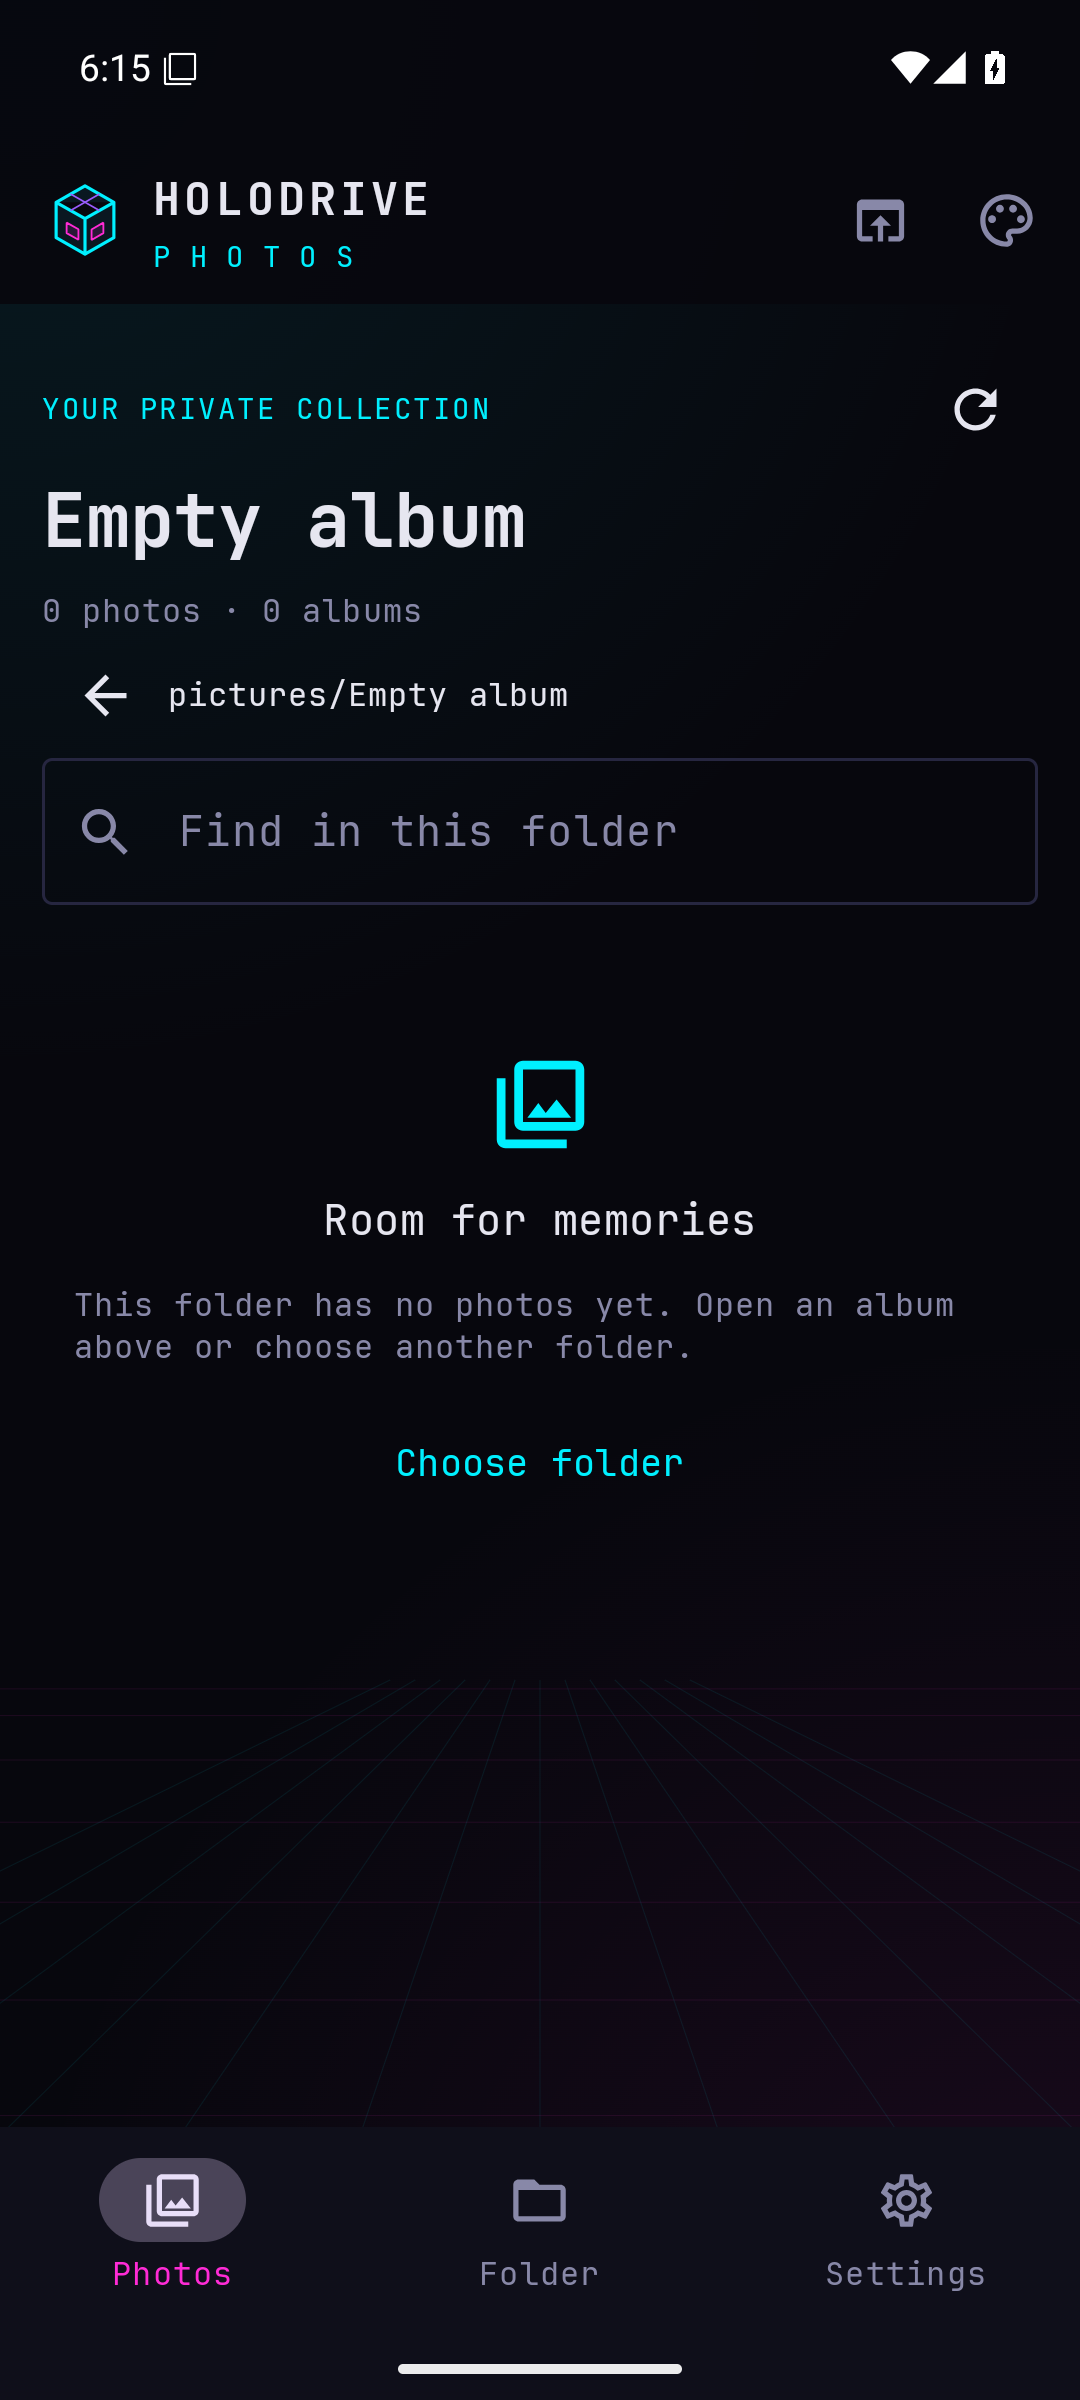
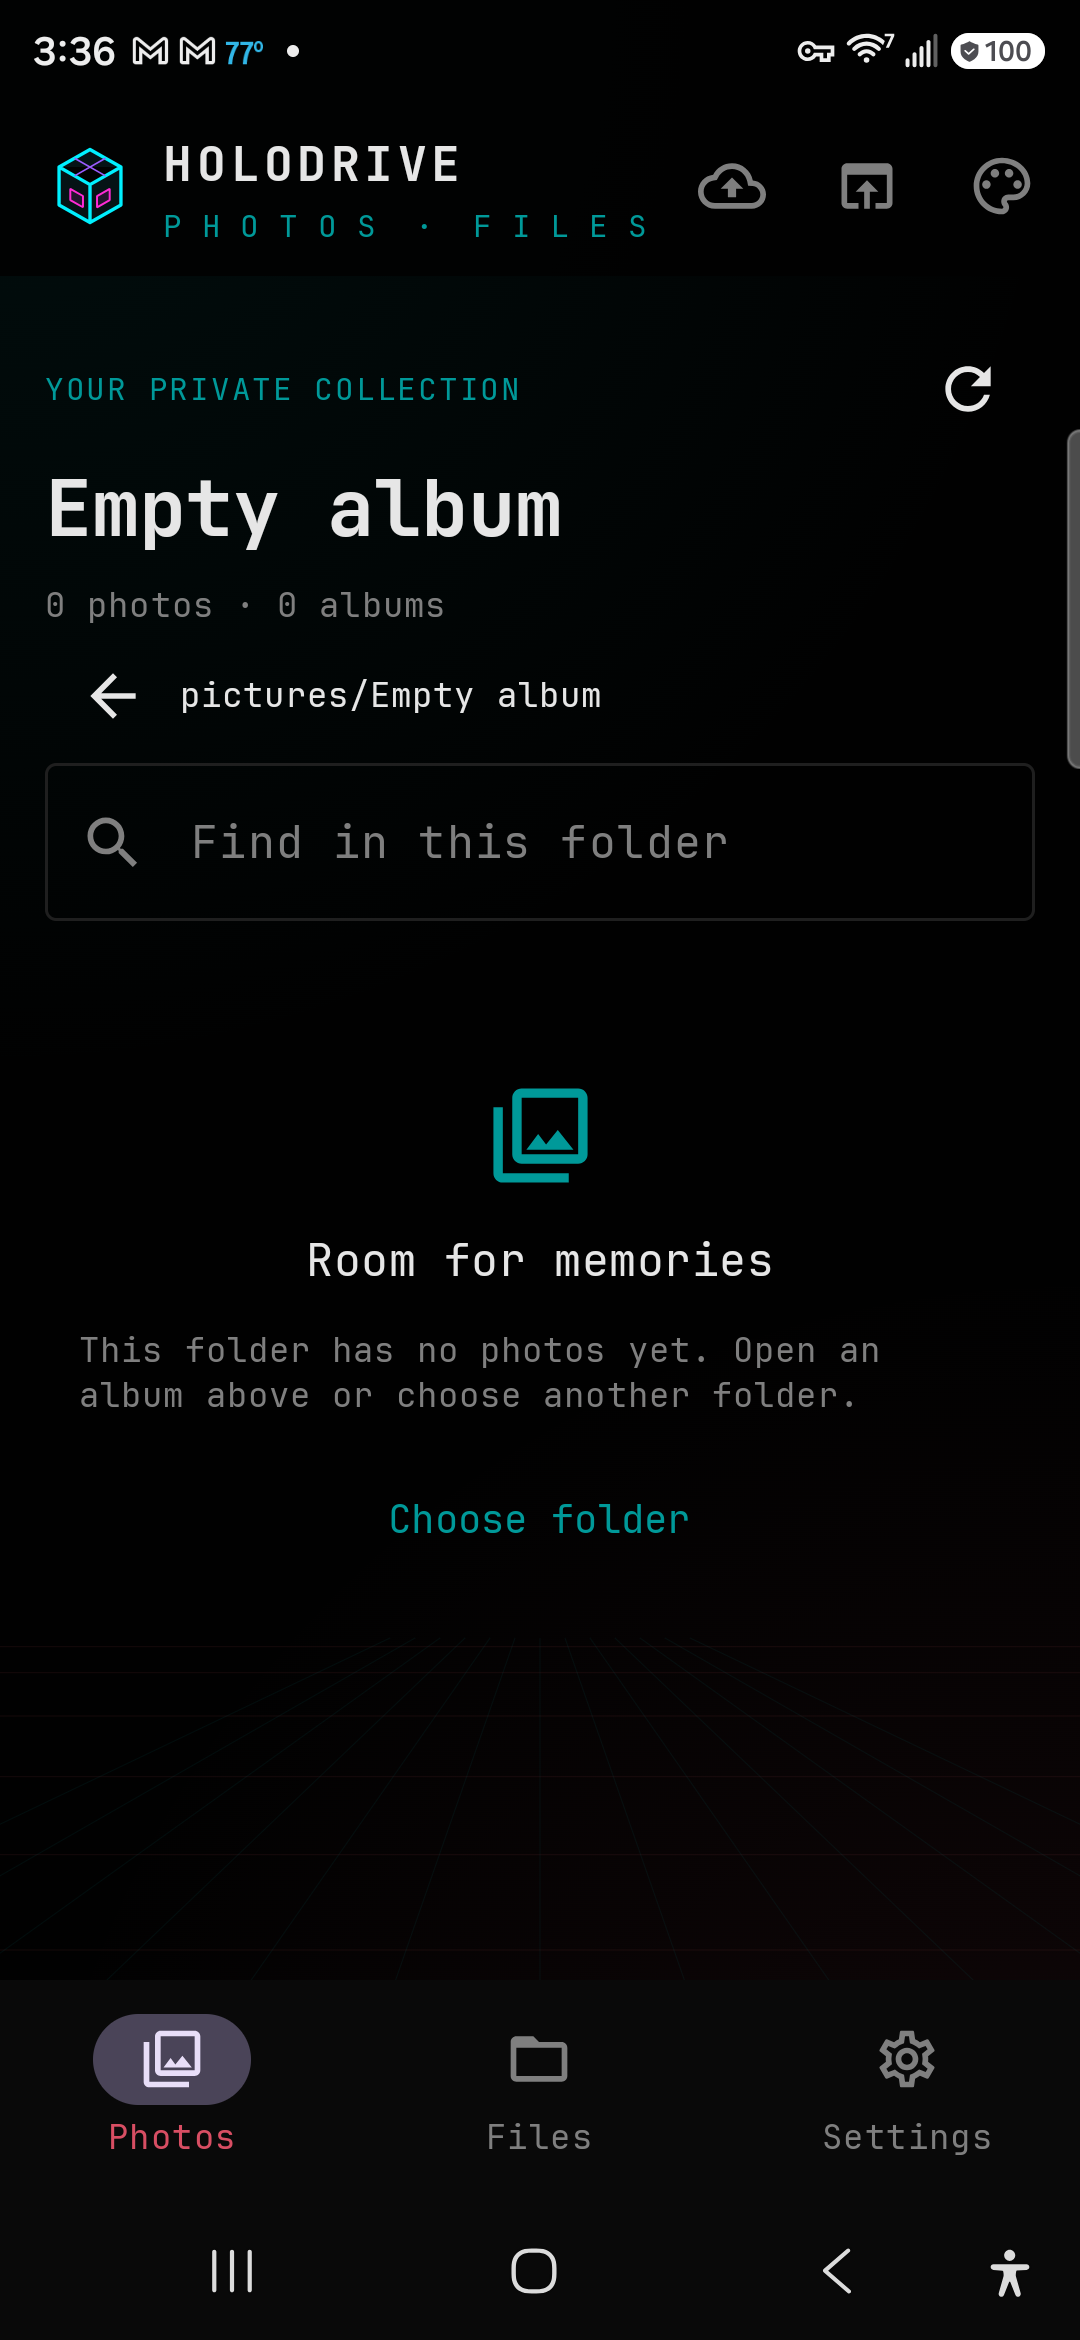
Replace Android page mock screenshots

diff --git a/holodrive-android-app/index.html b/holodrive-android-app/index.html
@@ -19,7 +19,7 @@
   <main id="top">
     <section class="hero wrap android-hero">
       <div class="hero-copy"><p class="eyebrow"><i></i> ANDROID 11+ / SELF-HOSTED</p><h1>Your library,<br><em>in your pocket.</em></h1><p class="lede">Holodrive Photos connects your Android phone to the Holodrive server you control. Browse photos and files, save originals, and send files from other apps into your library.</p><div class="actions"><a class="button primary" href="https://github.com/cybercore-tech/holodrive-android-app/releases">VIEW GITHUB RELEASES <span>↗</span></a><a class="button" href="https://github.com/cybercore-tech/holodrive-android-app/releases">RELEASE NOTES + SHA-256 <span>↗</span></a></div><p class="signal"><b>●</b> APACHE-2.0 SOURCE <span>—</span> SIGNED RELEASES <span>—</span> NO TRACKING</p></div>
-      <div class="phone-shot"><img src="assets/gallery.png" alt="Holodrive Photos Android gallery displaying generated sample images"><div>HOLODRIVE PHOTOS / GALLERY</div></div>
+      <div class="phone-shot"><img src="assets/gallery.png" alt="Holodrive Photos app gallery captured on an Android phone, with generated sample travel photos"><div>REAL ANDROID CAPTURE / HOLODRIVE PHOTOS</div></div>
     </section>
 
     <section class="section wrap" id="features"><div class="section-head"><p class="eyebrow">01 / MADE FOR YOUR SERVER</p><h2>Photos and files.<br><em>One familiar place.</em></h2><p>Connect once, then move naturally between your photo library and the files stored across your configured Holodrive drives.</p></div>
@@ -31,16 +31,15 @@
       </div>
     </section>
 
-    <section class="privacy-band" id="screenshots"><div class="wrap screenshots-section"><div class="section-head"><p class="eyebrow">02 / APP PREVIEW</p><h2>A closer<br><em>look around.</em></h2><p>These screenshots show generated sample content, not anyone’s personal library.</p></div><div class="screenshots-grid">
-      <figure><img src="assets/folder-picker.png" alt="Choose a folder for the Holodrive Android photo library"><figcaption>Choose your photo library folder</figcaption></figure>
-      <figure><img src="assets/gallery.png" alt="Holodrive Android Photos gallery"><figcaption>Browse photos by album</figcaption></figure>
-      <figure><img src="assets/viewer.png" alt="Full-screen Holodrive Android photo viewer"><figcaption>View and swipe between photos</figcaption></figure>
-      <figure><img src="assets/zoom.png" alt="Zoomed photo in the Holodrive Android viewer"><figcaption>Pinch to inspect details</figcaption></figure>
-      <figure><img src="assets/empty-album.png" alt="Empty Holodrive Android album state"><figcaption>Clear folder and empty states</figcaption></figure>
+    <section class="privacy-band" id="screenshots"><div class="wrap screenshots-section"><div class="section-head"><p class="eyebrow">02 / REAL APP SCREENSHOTS</p><h2>A closer<br><em>look around.</em></h2><p>Captured from the running app on an Android phone. Sample travel photos are generated for the demo; no personal library content is shown.</p></div><div class="screenshots-grid">
+      <figure><img src="assets/folder-picker.png" alt="Android capture of the Holodrive photo folder picker with sample albums"><figcaption>Select a folder on your server</figcaption></figure>
+      <figure><img src="assets/gallery.png" alt="Android capture of the Holodrive Photos gallery with sample travel photos"><figcaption>Browse photos and albums</figcaption></figure>
+      <figure><img src="assets/viewer.png" alt="Android capture of a full-screen Holodrive photo viewer showing a sample coastal photo"><figcaption>View and swipe through photos</figcaption></figure>
+      <figure><img src="assets/empty-album.png" alt="Android capture of the Holodrive empty album state"><figcaption>Helpful empty-album state</figcaption></figure>
     </div></div></section>
 
     <section class="section wrap install-section" id="install"><div class="section-head"><p class="eyebrow">03 / DOWNLOAD + INSTALL</p><h2>Get the app.<br><em>Keep it current.</em></h2><p>Releases are signed with the project’s update key. Verify the published SHA-256 before installing, then use Obtainium for update notifications.</p></div>
-      <div class="install-panel"><div class="install-copy"><p class="eyebrow">GITHUB RELEASES / ANDROID 11+</p><h3>Holodrive Photos APK</h3><p>The first signed release is being prepared. Check the release history for v0.1.0; once published, Android may ask you to allow your browser to install apps from this source.</p><a href="https://github.com/cybercore-tech/holodrive-android-app/releases">OPEN RELEASE HISTORY ↗</a></div><div class="install-command"><span>DOWNLOAD + VERIFY AFTER THE FIRST RELEASE / LINUX · MACOS · TERMUX</span><code>curl -fL -o holodrive-photos.apk https://github.com/cybercore-tech/holodrive-android-app/releases/latest/download/holodrive-photos.apk</code><code>curl -fL -o holodrive-photos.apk.sha256 https://github.com/cybercore-tech/holodrive-android-app/releases/latest/download/holodrive-photos.apk.sha256 &amp;&amp; sha256sum --check holodrive-photos.apk.sha256</code><small>These stable download URLs activate with the first release. Then open the APK on Android and follow the system install prompt.</small></div></div>
+      <div class="install-panel"><div class="install-copy"><p class="eyebrow">SIGNED GITHUB RELEASE / ANDROID 11+</p><h3>Holodrive Photos APK</h3><p>Version 0.1.0 is available now. Download the signed APK and install it on your Android phone; Android may ask you to allow installs from your browser or file manager.</p><a href="https://github.com/cybercore-tech/holodrive-android-app/releases/latest/download/holodrive-photos.apk">DOWNLOAD APK ↗</a><p><a href="https://github.com/cybercore-tech/holodrive-android-app/releases/latest">VIEW RELEASE NOTES ↗</a></p></div><div class="install-command"><span>DOWNLOAD + VERIFY / LINUX · MACOS · TERMUX</span><code>curl -fL -o holodrive-photos.apk https://github.com/cybercore-tech/holodrive-android-app/releases/latest/download/holodrive-photos.apk</code><code>curl -fL -o holodrive-photos.apk.sha256 https://github.com/cybercore-tech/holodrive-android-app/releases/latest/download/holodrive-photos.apk.sha256 &amp;&amp; sha256sum --check holodrive-photos.apk.sha256</code><small>On your phone, open the downloaded APK and follow Android’s install prompt. Add the repository to Obtainium for update notifications.</small></div></div>
       <div class="steps-grid"><article><b>01 / ONE-TIME INSTALL</b><p>Download the APK on your phone, open it, review Android’s install prompt, and install. You can also transfer the APK from a computer.</p></article><article><b>02 / CONNECT</b><p>Enter your Holodrive server address. Connect Tailscale first for a tailnet server, then sign in or use a device token.</p></article><article><b>03 / AUTOMATIC CHECKS</b><p>Install <a href="https://github.com/ImranR98/Obtainium/releases/latest">Obtainium</a>, choose <strong>Add app</strong>, and paste <code>https://github.com/cybercore-tech/holodrive-android-app</code>. Android asks before applying each update.</p></article></div>
       <p class="policy-links"><a href="https://github.com/cybercore-tech/holodrive-android-app/blob/main/docs/PRIVACY.md">PRIVACY POLICY ↗</a><a href="https://github.com/cybercore-tech/holodrive-android-app/blob/main/LICENSE">APACHE-2.0 LICENSE ↗</a><a href="https://github.com/cybercore-tech/holodrive-android-app">SOURCE + ISSUES ↗</a><a href="https://cybercore-tech.github.io/holodrive/">HOLODRIVE WEB APP ↗</a></p>
     </section>

diff --git a/holodrive-android-app/android.css b/holodrive-android-app/android.css
@@ -1,3 +1,3 @@
-.android-hero{min-height:660px}.phone-shot{justify-self:center;width:min(380px,100%);padding:12px;border:1px solid var(--cyan);background:linear-gradient(145deg,#15141e,#090e17);box-shadow:0 25px 90px #0009,0 0 40px #00e5ff1c}.phone-shot img{display:block;width:100%;height:auto;border:1px solid var(--line)}.phone-shot div{padding:11px 3px 0;color:var(--cyan);font:9px var(--mono);letter-spacing:.1em}.android-feature-grid .feature{min-height:300px}.android-feature-grid .feature p{min-height:100px}.screenshots-section{padding-block:78px}.screenshots-section .section-head{margin-bottom:30px}.screenshots-grid{display:grid;grid-template-columns:repeat(5,minmax(0,1fr));gap:12px;align-items:start}.screenshots-grid figure{margin:0;padding:8px;border:1px solid var(--line);background:var(--panel)}.screenshots-grid img{display:block;width:100%;height:auto;border:1px solid var(--line)}.screenshots-grid figcaption{min-height:46px;padding:9px 2px 1px;color:var(--cyan);font:9px/1.5 var(--mono)}.install-section{padding-top:85px}.install-section .install-panel{margin-top:28px}.install-command code+code{margin-top:2px}.install-command small{color:var(--muted);font:10px/1.6 var(--mono)}.steps-grid{display:grid;grid-template-columns:repeat(3,1fr);gap:12px;margin-top:18px}.steps-grid article{padding:20px;border:1px solid var(--line);background:color-mix(in srgb,var(--panel) 82%,transparent)}.steps-grid b{color:var(--acid);font:10px var(--mono);letter-spacing:.06em}.steps-grid p{margin:12px 0 0;color:var(--muted);font-size:13px}.steps-grid a,.steps-grid code{color:var(--cyan)}.steps-grid code{overflow-wrap:anywhere;font-size:11px}.policy-links{display:flex;flex-wrap:wrap;gap:13px 22px;margin-top:28px}.policy-links a{color:var(--cyan);font:9px var(--mono);letter-spacing:.04em}
+.android-hero{min-height:660px}.phone-shot{justify-self:center;width:min(380px,100%);padding:12px;border:1px solid var(--cyan);background:linear-gradient(145deg,#15141e,#090e17);box-shadow:0 25px 90px #0009,0 0 40px #00e5ff1c}.phone-shot img{display:block;width:100%;height:auto;border:1px solid var(--line)}.phone-shot div{padding:11px 3px 0;color:var(--cyan);font:9px var(--mono);letter-spacing:.1em}.android-feature-grid .feature{min-height:300px}.android-feature-grid .feature p{min-height:100px}.screenshots-section{padding-block:78px}.screenshots-section .section-head{margin-bottom:30px}.screenshots-grid{display:grid;grid-template-columns:repeat(4,minmax(0,1fr));gap:12px;align-items:start}.screenshots-grid figure{margin:0;padding:8px;border:1px solid var(--line);background:var(--panel)}.screenshots-grid img{display:block;width:100%;height:auto;border:1px solid var(--line)}.screenshots-grid figcaption{min-height:46px;padding:9px 2px 1px;color:var(--cyan);font:9px/1.5 var(--mono)}.install-section{padding-top:85px}.install-section .install-panel{margin-top:28px}.install-command code+code{margin-top:2px}.install-command small{color:var(--muted);font:10px/1.6 var(--mono)}.steps-grid{display:grid;grid-template-columns:repeat(3,1fr);gap:12px;margin-top:18px}.steps-grid article{padding:20px;border:1px solid var(--line);background:color-mix(in srgb,var(--panel) 82%,transparent)}.steps-grid b{color:var(--acid);font:10px var(--mono);letter-spacing:.06em}.steps-grid p{margin:12px 0 0;color:var(--muted);font-size:13px}.steps-grid a,.steps-grid code{color:var(--cyan)}.steps-grid code{overflow-wrap:anywhere;font-size:11px}.policy-links{display:flex;flex-wrap:wrap;gap:13px 22px;margin-top:28px}.policy-links a{color:var(--cyan);font:9px var(--mono);letter-spacing:.04em}
 @media(max-width:1000px){.screenshots-grid{grid-template-columns:repeat(3,minmax(0,1fr))}.android-feature-grid .feature{min-height:260px}}
 @media(max-width:650px){.android-hero{padding-top:55px}.phone-shot{width:min(330px,100%)}.screenshots-section{padding-block:55px}.screenshots-grid{grid-template-columns:repeat(2,minmax(0,1fr))}.android-feature-grid .feature{min-height:0}.android-feature-grid .feature p{min-height:0}.steps-grid{grid-template-columns:1fr}.policy-links{display:grid;grid-template-columns:1fr 1fr}}
